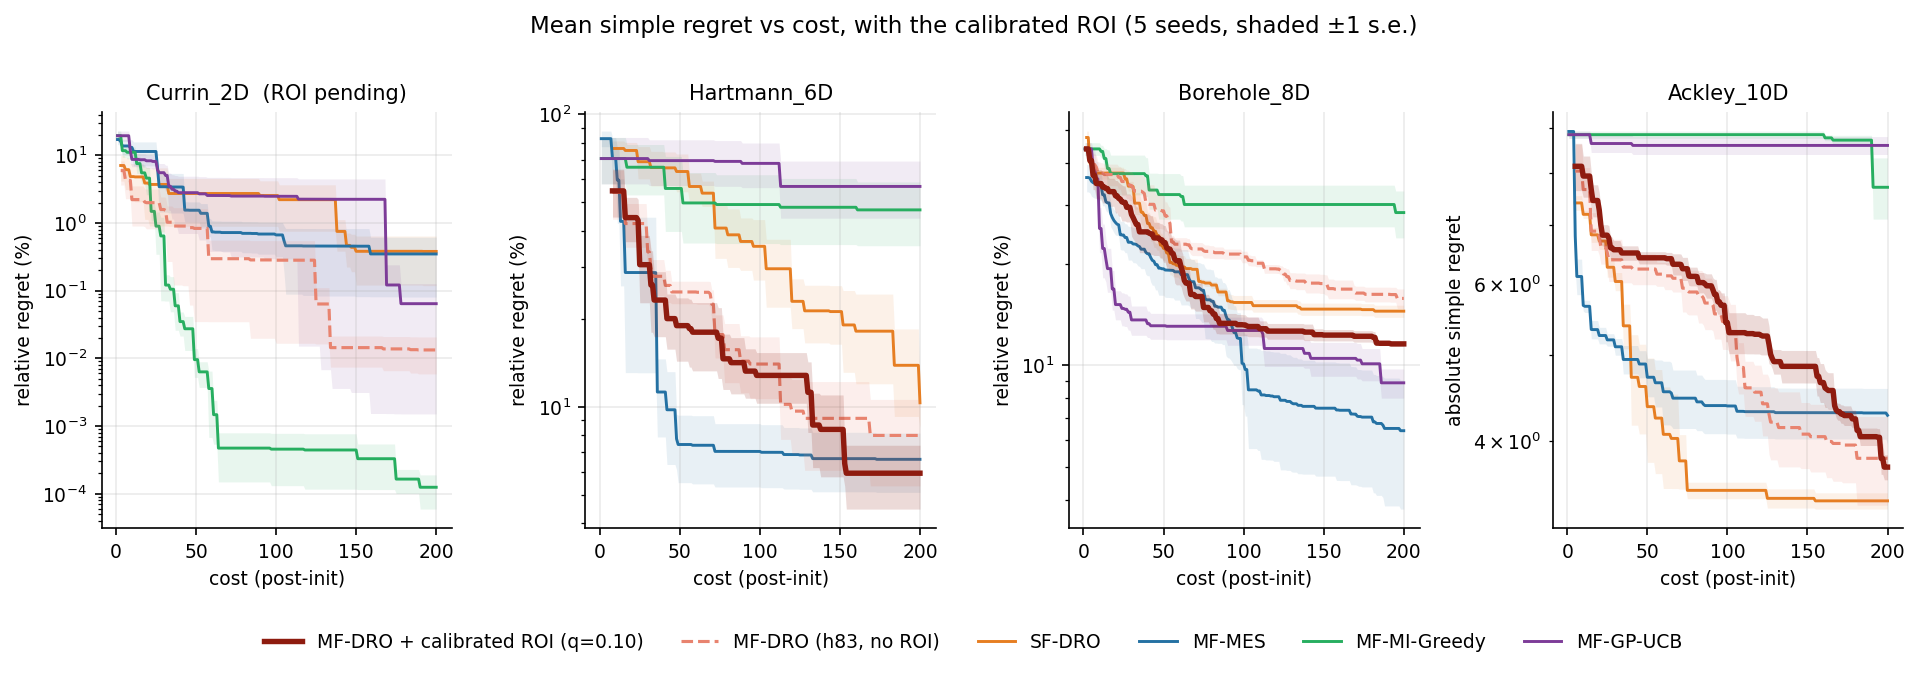
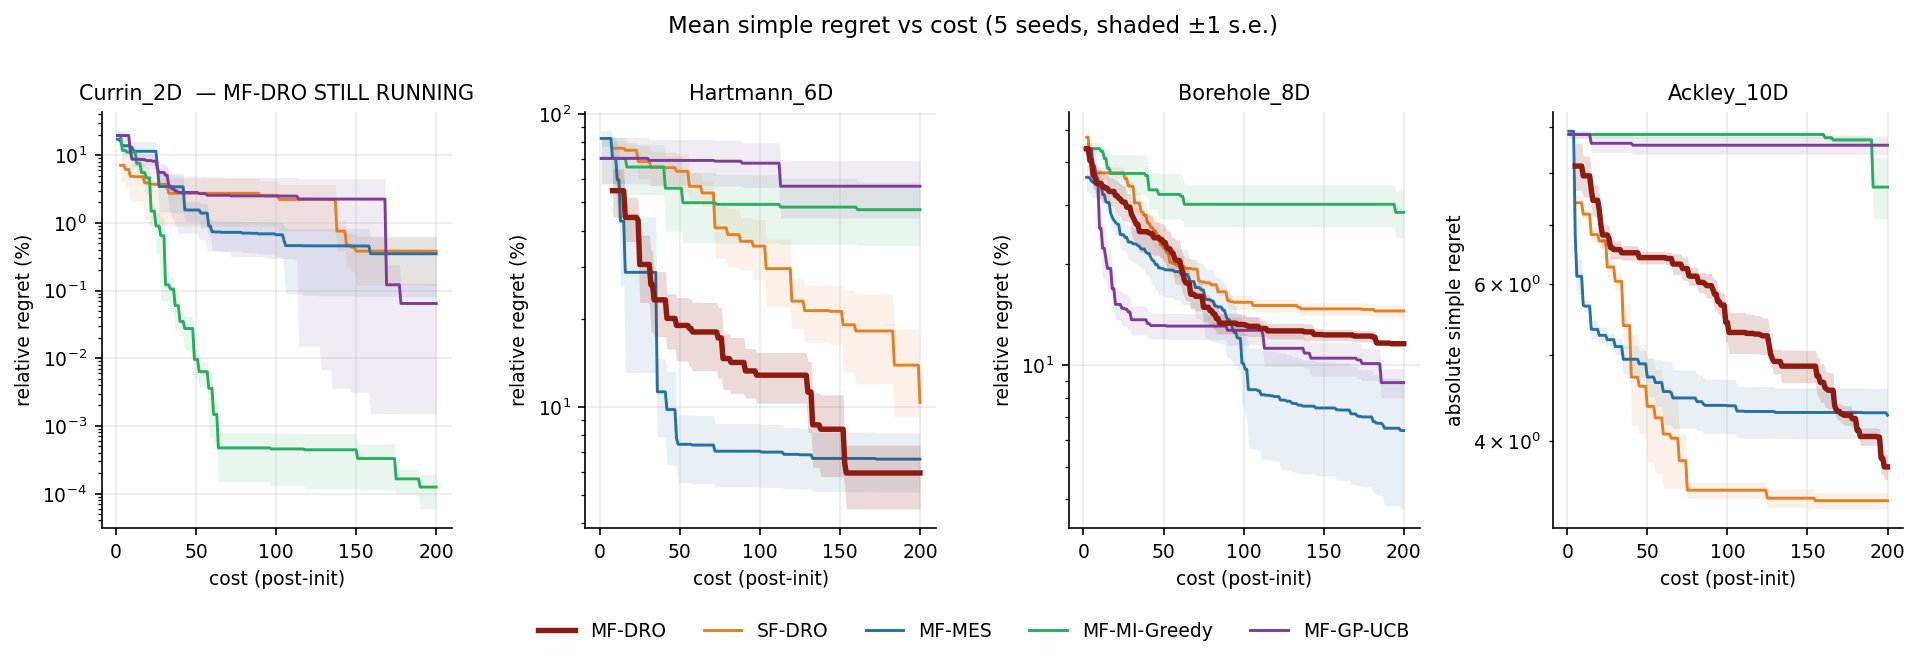
research(results): plot MF-DRO as the calibrated-ROI configuration only
Human-directed: drop the no-ROI arm and label the ROI configuration simply
'MF-DRO' -- that IS the method. Five curves per panel now: MF-DRO plus the four
h83 baselines, all on h83's own metric.

Currin's MF-DRO arm is still running (40-45% at time of plotting), so its panel
carries no MF-DRO curve. The title says 'MF-DRO STILL RUNNING' rather than
leaving a silently absent method, and the figure regenerates when those 5 seeds
land.

diff --git a/experiments/h86-roi-full/code/plot_roi.py b/experiments/h86-roi-full/code/plot_roi.py
@@ -1,4 +1,8 @@
-"""Mean SR-vs-cost with the calibrated-ROI arm added.
+"""Mean SR-vs-cost: MF-DRO (with the calibrated ROI) against the h83 baselines.
+
+"MF-DRO" here IS the calibrated-ROI configuration (use_roi=True,
+roi_beta_mode='quantile', roi_target_accept=0.10) -- that is the method. The
+older no-ROI runs are h83's and are not drawn; see fig1 in h83 for those.
 
 Uses h83's own sr_curve/grid so every method sits on one metric: SR
 grid-interpolated onto a common cost axis. The MF-DRO+ROI arm is assembled from
@@ -50,20 +54,17 @@ for ax,b in zip(axes,BENCH):
     for m in BASE:
         A=curves(b,[f'{H83}/{b}__{m}__seed{s}.json' for s in SEEDS])
         if A is not None: band(ax,A,C[m],1.4,z=2,alpha_f=0.10)
-    A=curves(b,[f'{H83}/{b}__MF-DRO__seed{s}.json' for s in SEEDS])
-    if A is not None: band(ax,A,DRO_OLD,1.5,ls="--",z=3)
     B=curves(b,[f'{ROI[b]}/{b}__ROI-Q10__seed{s}.json' for s in SEEDS])
     n_roi=0 if B is None else B.shape[0]
     if B is not None: band(ax,B,DRO_NEW,2.6,z=5,alpha_f=0.16)
     ax.set_yscale("log"); ax.set_xlabel("cost (post-init)"); ax.set_ylabel(lab)
-    t=b if n_roi==5 else (f"{b}  (ROI n={n_roi})" if n_roi else f"{b}  (ROI pending)")
+    t=b if n_roi==5 else (f"{b}  (MF-DRO n={n_roi}/5)" if n_roi
+                          else f"{b}  — MF-DRO STILL RUNNING")
     ax.set_title(t,fontsize=10)
 fig.subplots_adjust(wspace=0.38)
-H=[Line2D([],[],color=DRO_NEW,lw=2.6,label="MF-DRO + calibrated ROI (q=0.10)"),
-   Line2D([],[],color=DRO_OLD,lw=1.5,ls="--",label="MF-DRO (h83, no ROI)")]+ \
+H=[Line2D([],[],color=DRO_NEW,lw=2.6,label="MF-DRO")]+ \
   [Line2D([],[],color=C[m],lw=1.4,label=m) for m in BASE]
-fig.legend(handles=H,loc="lower center",ncol=6,frameon=False,bbox_to_anchor=(0.5,-0.15))
-fig.suptitle("Mean simple regret vs cost, with the calibrated ROI (5 seeds, shaded ±1 s.e.)",
-             y=1.06,fontsize=11)
+fig.legend(handles=H,loc="lower center",ncol=5,frameon=False,bbox_to_anchor=(0.5,-0.13))
+fig.suptitle("Mean simple regret vs cost (5 seeds, shaded ±1 s.e.)",y=1.06,fontsize=11)
 out=os.path.join(H86,"fig_roi_mean_sr_vs_cost.png")
 fig.savefig(out); print("wrote",out)
